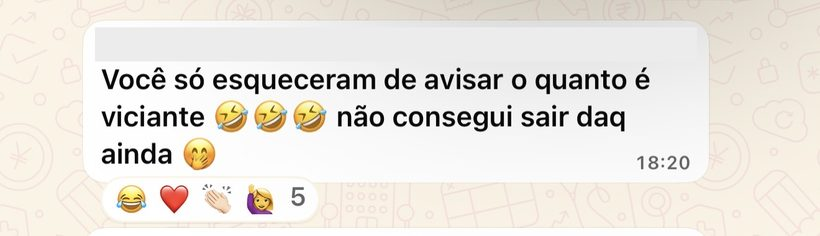
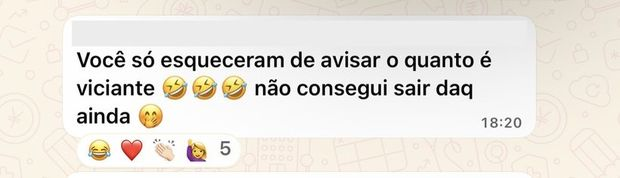
Corrige buracos no carrossel: prints menores e sem lazy na primeira volta
Quatro prints nunca carregavam porque o lazy nao dispara pra imagem que
so entra em tela pela animacao da fita. A primeira copia de cada coluna
agora carrega direto e a duplicata segue lazy (mesma URL, ja em cache).
Prints reencodados de 820px para 620px: 995KB -> 631KB.

diff --git a/index.html b/index.html
@@ -527,11 +527,11 @@ p{margin:0 0 14px}
     <div class="carrossel" id="carrossel" aria-label="Prints do grupo da turma 1">
       <div class="coluna">
         <div class="fita" style="--dur:64s">
-          <figure class="tira"><img class="ampliar" src="img/prova/print-6807.jpg" alt="Mensagem de aluna da turma 1 no grupo" loading="lazy" decoding="async"></figure>
-          <figure class="tira"><img class="ampliar" src="img/prova/print-6810.jpg" alt="Mensagem de aluna da turma 1 no grupo" loading="lazy" decoding="async"></figure>
-          <figure class="tira"><img class="ampliar" src="img/prova/print-6813.jpg" alt="Mensagem de aluna da turma 1 no grupo" loading="lazy" decoding="async"></figure>
-          <figure class="tira"><img class="ampliar" src="img/prova/print-6816.jpg" alt="Mensagem de aluna da turma 1 no grupo" loading="lazy" decoding="async"></figure>
-          <figure class="tira"><img class="ampliar" src="img/prova/print-6820.jpg" alt="Mensagem de aluna da turma 1 no grupo" loading="lazy" decoding="async"></figure>
+          <figure class="tira"><img class="ampliar" src="img/prova/print-6807.jpg" alt="Mensagem de aluna da turma 1 no grupo" decoding="async"></figure>
+          <figure class="tira"><img class="ampliar" src="img/prova/print-6810.jpg" alt="Mensagem de aluna da turma 1 no grupo" decoding="async"></figure>
+          <figure class="tira"><img class="ampliar" src="img/prova/print-6813.jpg" alt="Mensagem de aluna da turma 1 no grupo" decoding="async"></figure>
+          <figure class="tira"><img class="ampliar" src="img/prova/print-6816.jpg" alt="Mensagem de aluna da turma 1 no grupo" decoding="async"></figure>
+          <figure class="tira"><img class="ampliar" src="img/prova/print-6820.jpg" alt="Mensagem de aluna da turma 1 no grupo" decoding="async"></figure>
           <figure class="tira"><img class="ampliar" src="img/prova/print-6807.jpg" alt="Mensagem de aluna da turma 1 no grupo" loading="lazy" decoding="async"></figure>
           <figure class="tira"><img class="ampliar" src="img/prova/print-6810.jpg" alt="Mensagem de aluna da turma 1 no grupo" loading="lazy" decoding="async"></figure>
           <figure class="tira"><img class="ampliar" src="img/prova/print-6813.jpg" alt="Mensagem de aluna da turma 1 no grupo" loading="lazy" decoding="async"></figure>
@@ -541,11 +541,11 @@ p{margin:0 0 14px}
       </div>
       <div class="coluna sobe-ao-contrario">
         <div class="fita" style="--dur:78s">
-          <figure class="tira"><img class="ampliar" src="img/prova/print-6808.jpg" alt="Mensagem de aluna da turma 1 no grupo" loading="lazy" decoding="async"></figure>
-          <figure class="tira"><img class="ampliar" src="img/prova/print-6811.jpg" alt="Mensagem de aluna da turma 1 no grupo" loading="lazy" decoding="async"></figure>
-          <figure class="tira"><img class="ampliar" src="img/prova/print-6814.jpg" alt="Mensagem de aluna da turma 1 no grupo" loading="lazy" decoding="async"></figure>
-          <figure class="tira"><img class="ampliar" src="img/prova/print-6817.jpg" alt="Mensagem de aluna da turma 1 no grupo" loading="lazy" decoding="async"></figure>
-          <figure class="tira"><img class="ampliar" src="img/prova/print-6821.jpg" alt="Mensagem de aluna da turma 1 no grupo" loading="lazy" decoding="async"></figure>
+          <figure class="tira"><img class="ampliar" src="img/prova/print-6808.jpg" alt="Mensagem de aluna da turma 1 no grupo" decoding="async"></figure>
+          <figure class="tira"><img class="ampliar" src="img/prova/print-6811.jpg" alt="Mensagem de aluna da turma 1 no grupo" decoding="async"></figure>
+          <figure class="tira"><img class="ampliar" src="img/prova/print-6814.jpg" alt="Mensagem de aluna da turma 1 no grupo" decoding="async"></figure>
+          <figure class="tira"><img class="ampliar" src="img/prova/print-6817.jpg" alt="Mensagem de aluna da turma 1 no grupo" decoding="async"></figure>
+          <figure class="tira"><img class="ampliar" src="img/prova/print-6821.jpg" alt="Mensagem de aluna da turma 1 no grupo" decoding="async"></figure>
           <figure class="tira"><img class="ampliar" src="img/prova/print-6808.jpg" alt="Mensagem de aluna da turma 1 no grupo" loading="lazy" decoding="async"></figure>
           <figure class="tira"><img class="ampliar" src="img/prova/print-6811.jpg" alt="Mensagem de aluna da turma 1 no grupo" loading="lazy" decoding="async"></figure>
           <figure class="tira"><img class="ampliar" src="img/prova/print-6814.jpg" alt="Mensagem de aluna da turma 1 no grupo" loading="lazy" decoding="async"></figure>
@@ -555,10 +555,10 @@ p{margin:0 0 14px}
       </div>
       <div class="coluna so-desktop">
         <div class="fita" style="--dur:70s">
-          <figure class="tira"><img class="ampliar" src="img/prova/print-6809.jpg" alt="Mensagem de aluna da turma 1 no grupo" loading="lazy" decoding="async"></figure>
-          <figure class="tira"><img class="ampliar" src="img/prova/print-6812.jpg" alt="Mensagem de aluna da turma 1 no grupo" loading="lazy" decoding="async"></figure>
-          <figure class="tira"><img class="ampliar" src="img/prova/print-6815.jpg" alt="Mensagem de aluna da turma 1 no grupo" loading="lazy" decoding="async"></figure>
-          <figure class="tira"><img class="ampliar" src="img/prova/print-6819.jpg" alt="Mensagem de aluna da turma 1 no grupo" loading="lazy" decoding="async"></figure>
+          <figure class="tira"><img class="ampliar" src="img/prova/print-6809.jpg" alt="Mensagem de aluna da turma 1 no grupo" decoding="async"></figure>
+          <figure class="tira"><img class="ampliar" src="img/prova/print-6812.jpg" alt="Mensagem de aluna da turma 1 no grupo" decoding="async"></figure>
+          <figure class="tira"><img class="ampliar" src="img/prova/print-6815.jpg" alt="Mensagem de aluna da turma 1 no grupo" decoding="async"></figure>
+          <figure class="tira"><img class="ampliar" src="img/prova/print-6819.jpg" alt="Mensagem de aluna da turma 1 no grupo" decoding="async"></figure>
           <figure class="tira"><img class="ampliar" src="img/prova/print-6809.jpg" alt="Mensagem de aluna da turma 1 no grupo" loading="lazy" decoding="async"></figure>
           <figure class="tira"><img class="ampliar" src="img/prova/print-6812.jpg" alt="Mensagem de aluna da turma 1 no grupo" loading="lazy" decoding="async"></figure>
           <figure class="tira"><img class="ampliar" src="img/prova/print-6815.jpg" alt="Mensagem de aluna da turma 1 no grupo" loading="lazy" decoding="async"></figure>
